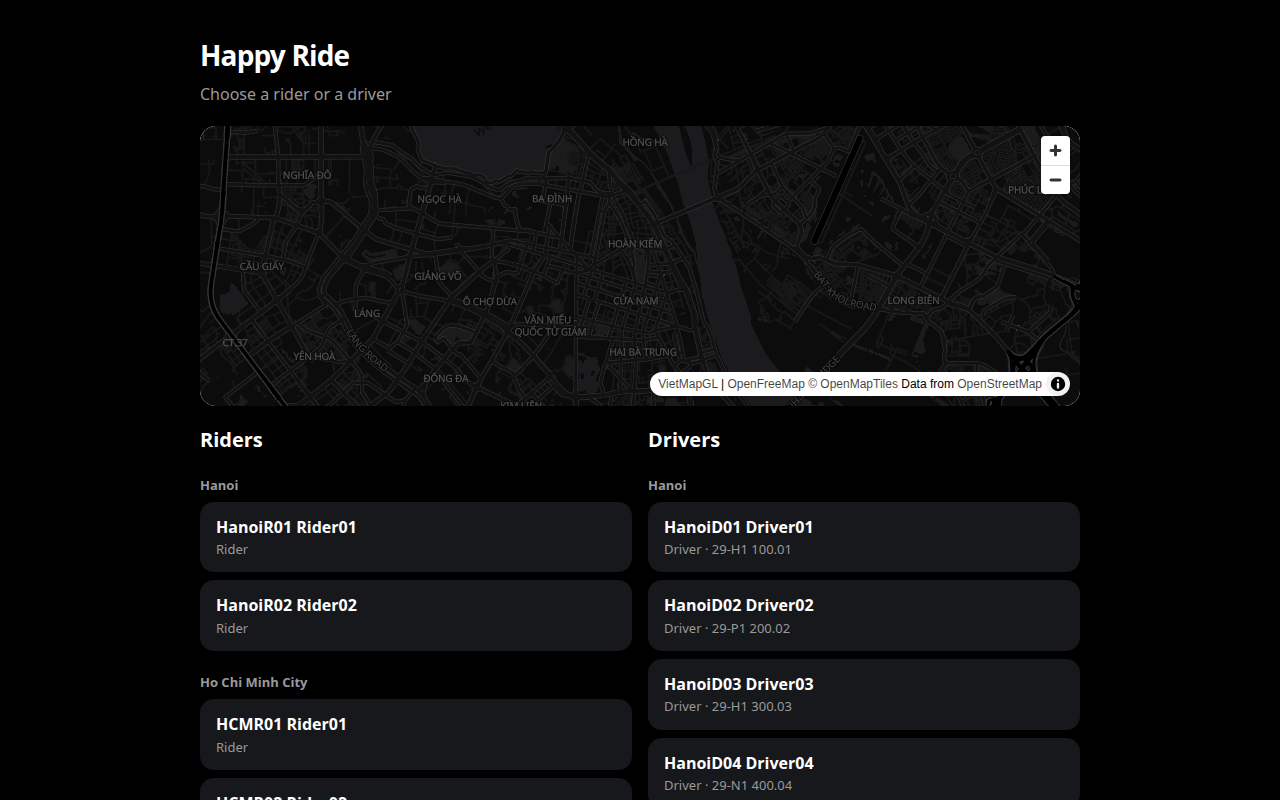
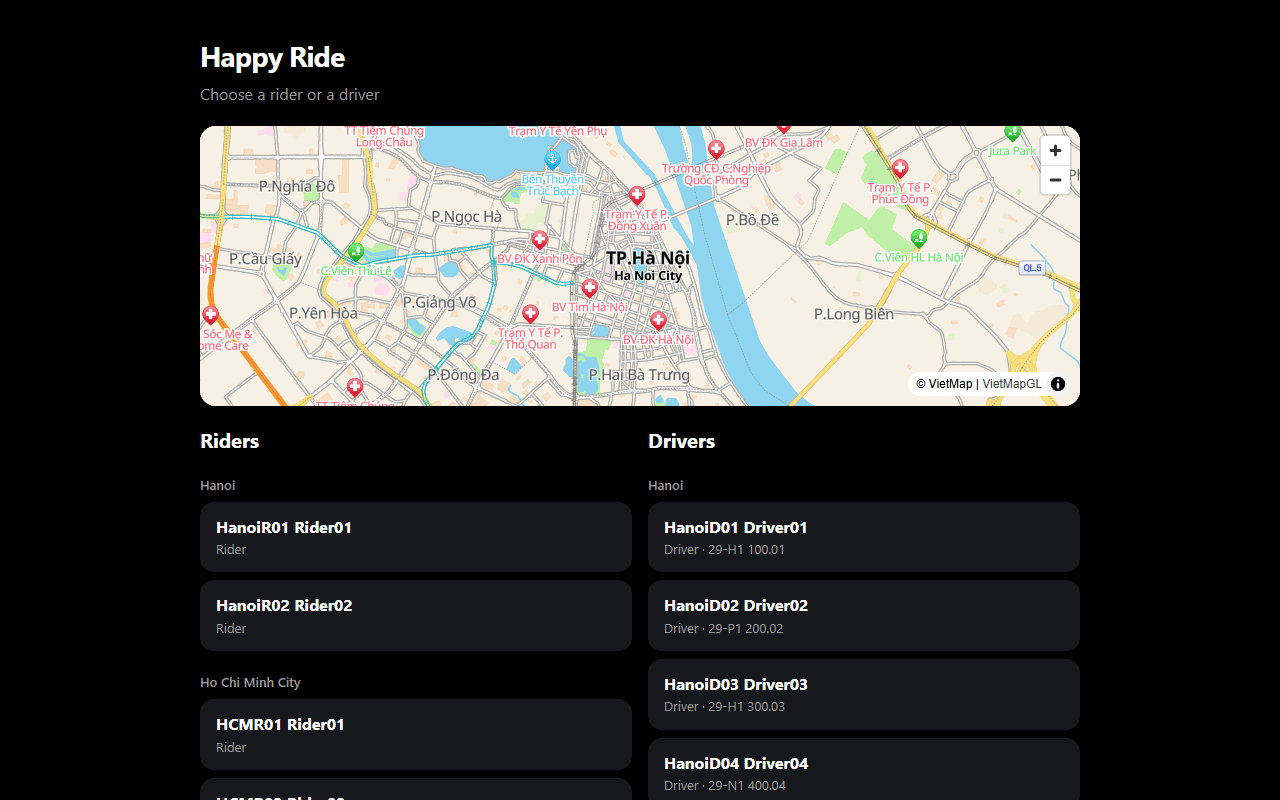
Update README screenshots to light street map and link repo on Slide 4

diff --git a/docs/slides/index.html b/docs/slides/index.html
@@ -544,7 +544,10 @@
   <section class="slide" data-slide="4">
     <div style="display:flex; flex-direction:column; min-height:0; flex:1;">
       <p class="kicker">04 · System Architecture · Live Map, SignalR &amp; Azure Service Bus</p>
-      <h2>How Happy Ride works (<code style="font-size:24px;">web/</code> + <code style="font-size:24px;">src/GrabBike.Api/</code>)</h2>
+      <div style="display:flex; justify-content:space-between; align-items:baseline; gap:16px;">
+        <h2>How Happy Ride works (<code style="font-size:24px;">web/</code> + <code style="font-size:24px;">src/GrabBike.Api/</code>)</h2>
+        <a href="https://github.com/hdduong/happy-ride" target="_blank" rel="noopener" style="font-size:14px; font-weight:600; white-space:nowrap;">github.com/hdduong/happy-ride ↗</a>
+      </div>
 
       <div class="card" style="flex:1; justify-content:center; padding: 14px 18px;">
         <svg viewBox="0 0 1320 490" width="100%" height="100%" role="img" aria-label="Happy Ride architecture diagram">
@@ -694,7 +697,7 @@
     </div>
 
     <div class="slide-footer">
-      <span>Happy Ride Architecture · ServiceBusDispatchBus.cs + DispatchService.cs + SignalRRideEventPublisher.cs</span>
+      <span>GitHub Repo: <a href="https://github.com/hdduong/happy-ride" target="_blank" rel="noopener">https://github.com/hdduong/happy-ride</a> · ServiceBusDispatchBus.cs + DispatchService.cs + SignalRRideEventPublisher.cs</span>
       <span>Slide 4 / 4</span>
     </div>
   </section>

diff --git a/README.md b/README.md
@@ -9,15 +9,15 @@ Motorbike ride-hailing MVP for Hanoi and Ho Chi Minh City built with an ASP.NET 
 
 ## Screenshots
 
-### Home — Persona Picker & City Map
+### Home — Persona Picker & Light City Map
 
 ![Happy Ride home screen](docs/screenshots/home.png)
 
-### Driver — Incoming Ride Offer
+### Driver — Incoming Ride Offer on Light Street Map
 
 ![Happy Ride driver offer screen](docs/screenshots/driver-offer.png)
 
-### Rider — Matched Driver & Live Route
+### Rider — Matched Driver & Live Route on Light Street Map
 
 ![Happy Ride rider matched screen](docs/screenshots/rider-matched.png)
 
